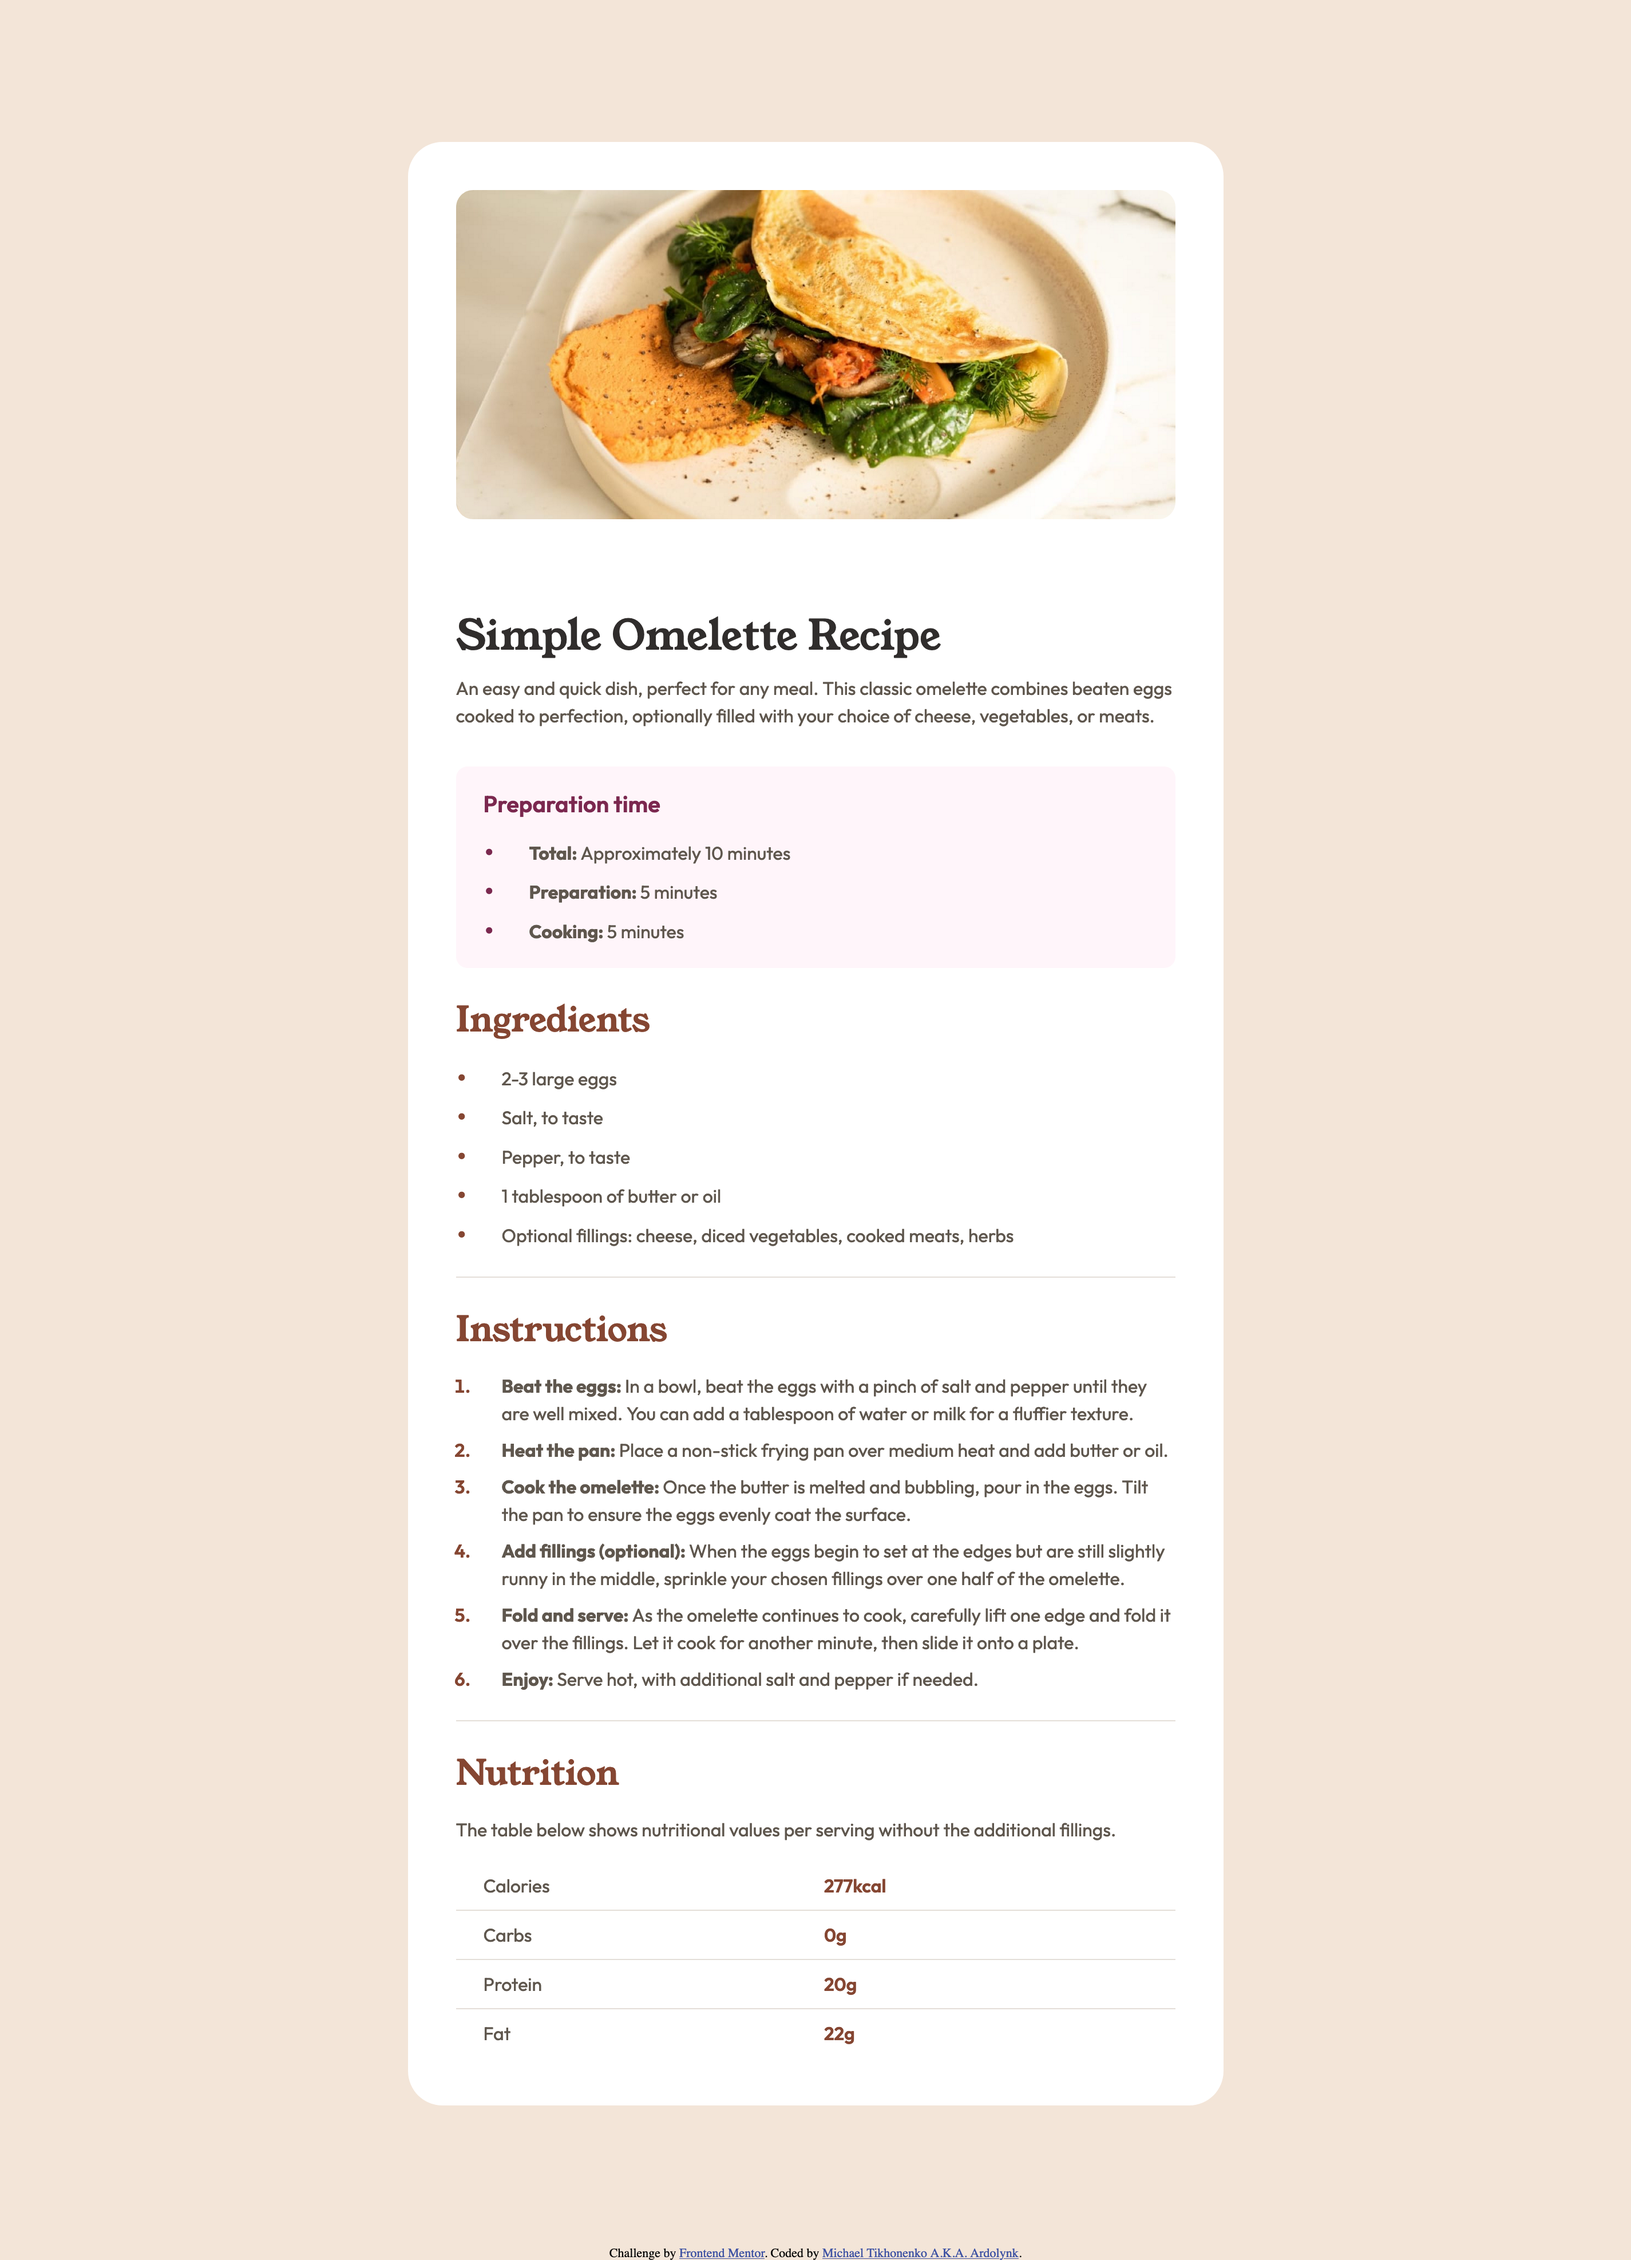
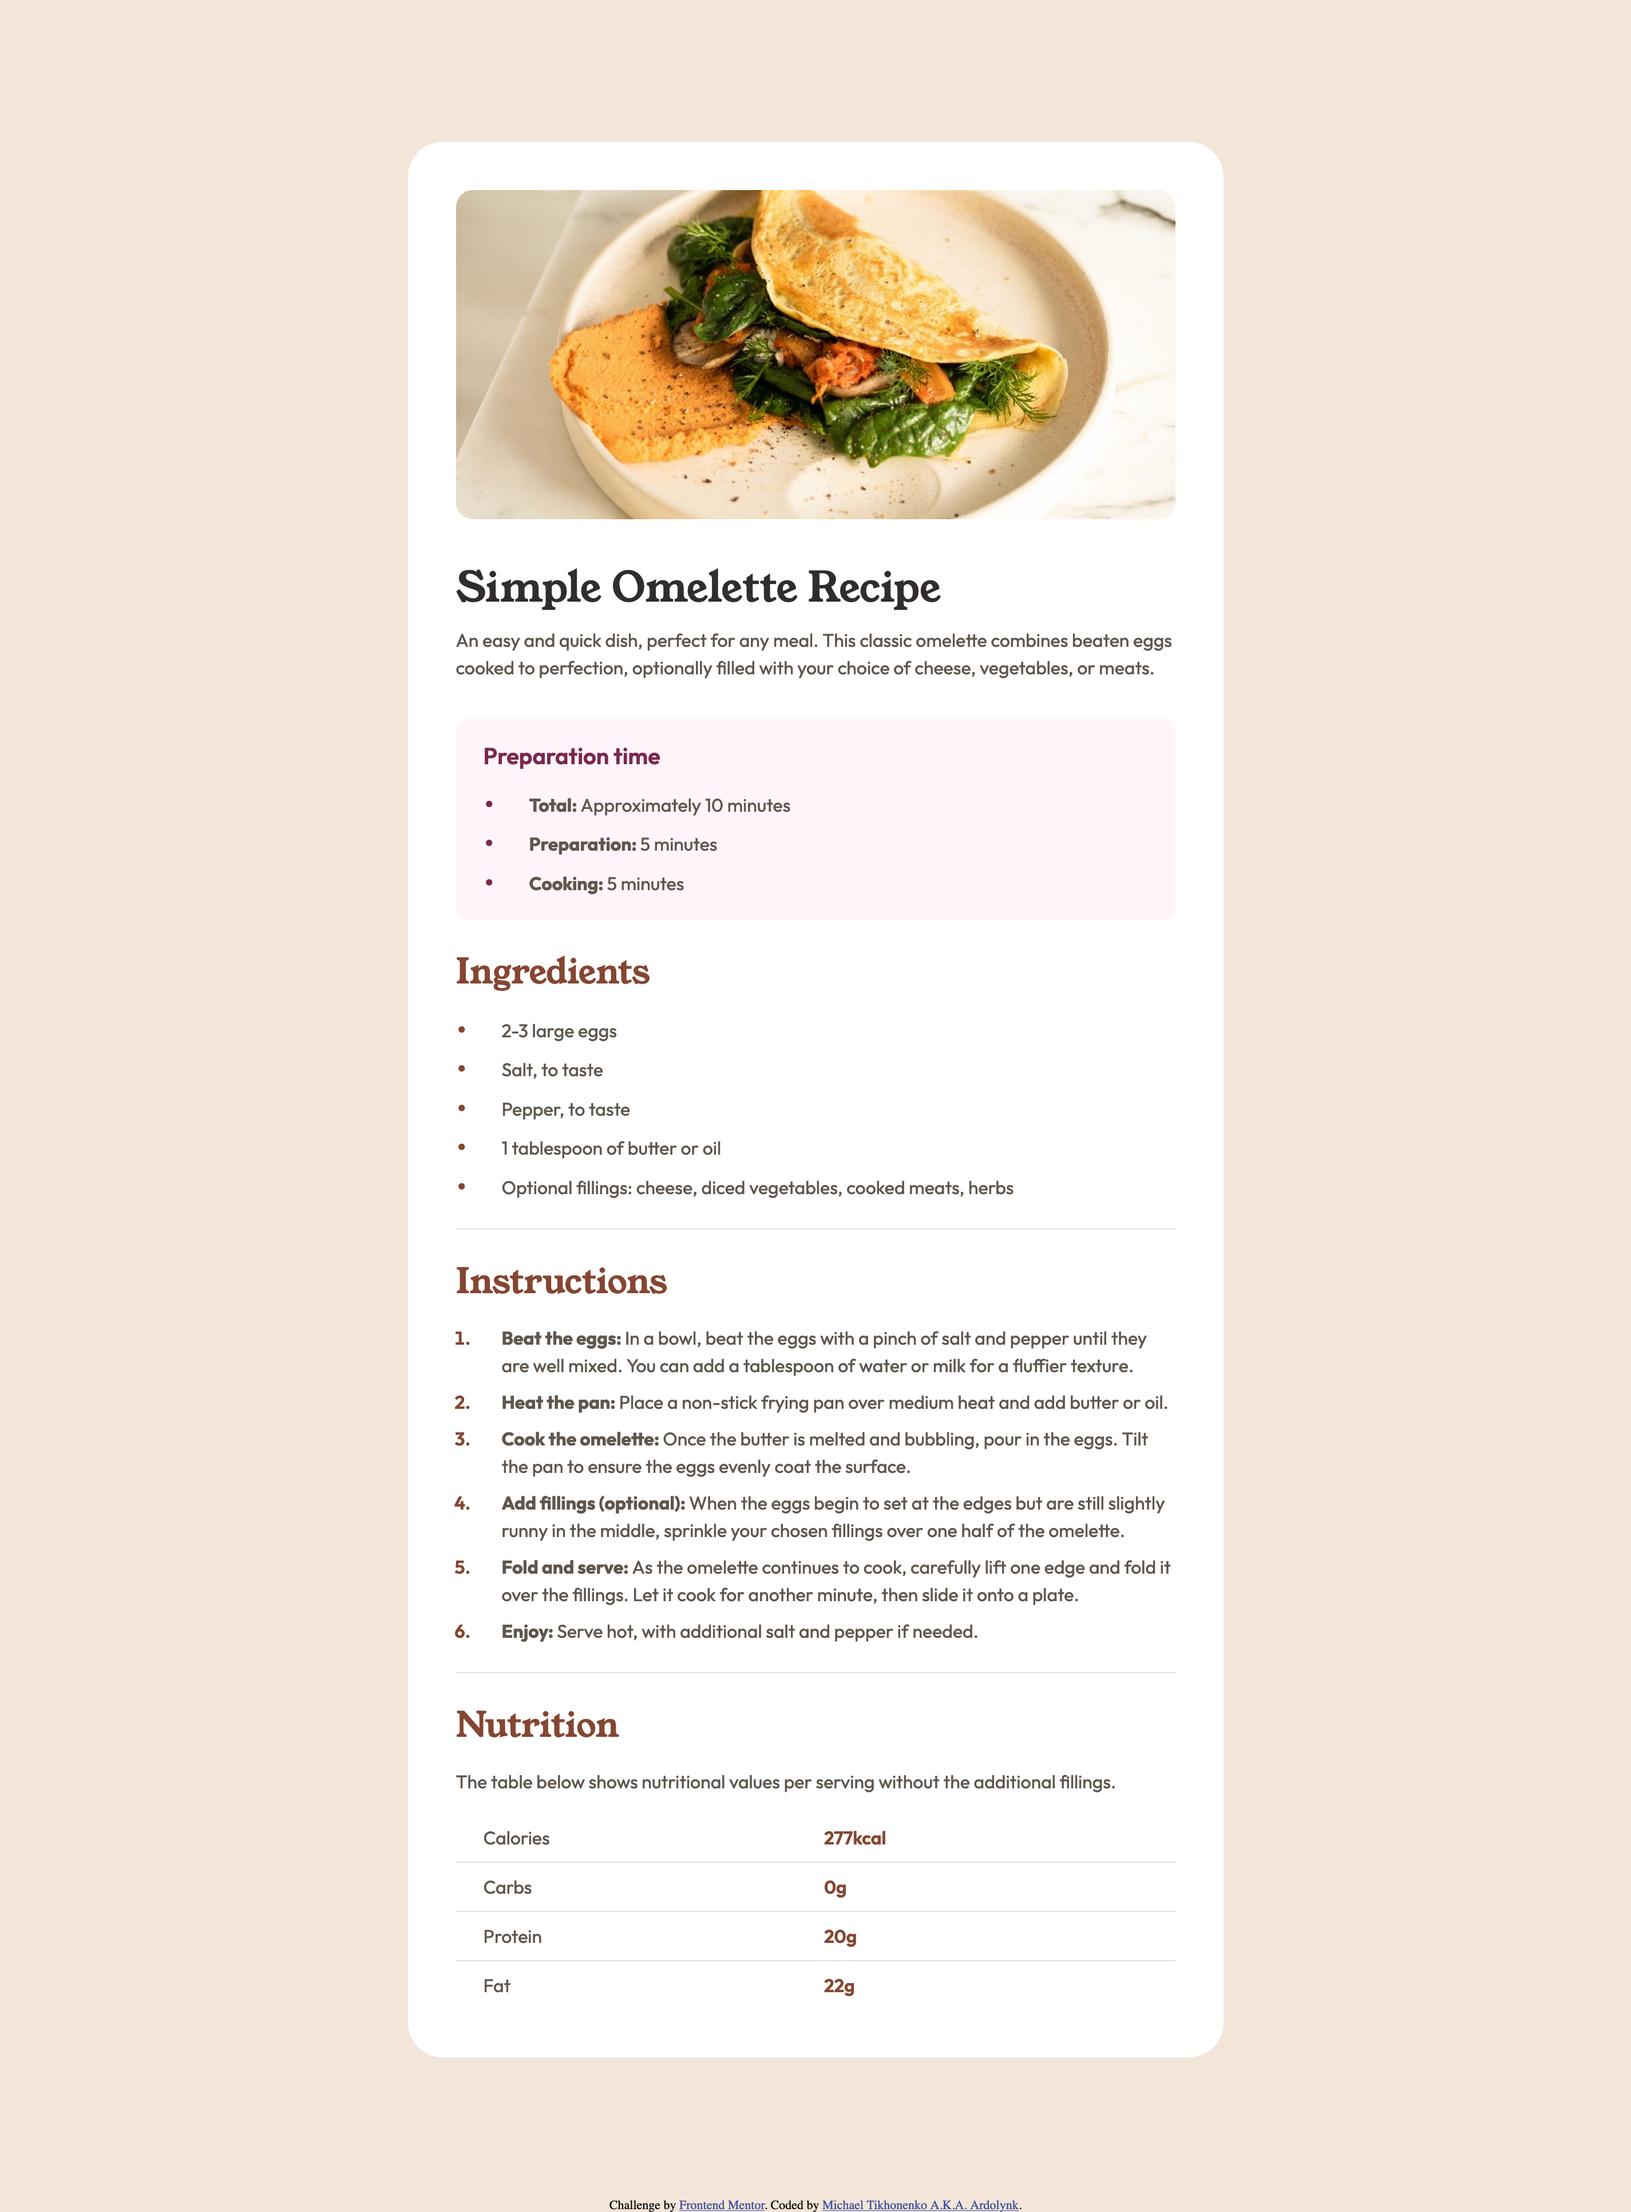
One more minor improvement to Recipe page

diff --git a/recipe-page-main/styles.css b/recipe-page-main/styles.css
@@ -183,7 +183,7 @@
   }
 
   .picture {
-    padding: 42px;
+    padding: 42px 42px 0 42px;
   }
 
   .picture img {
